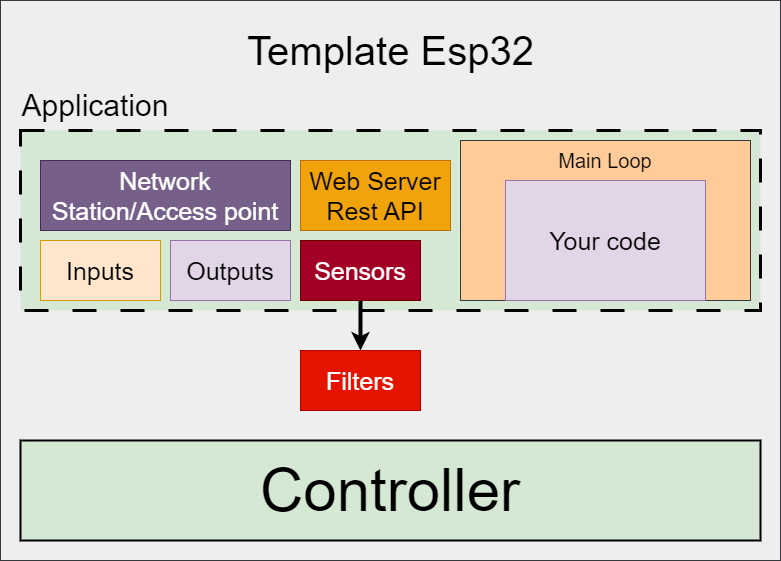
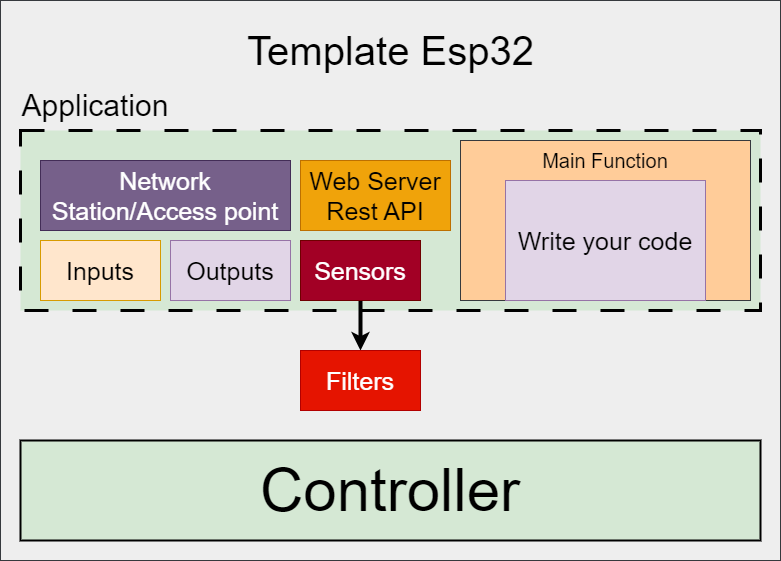
Template for testing

Changed region(s): [[0.6453, 0.3939, 0.8912, 0.4545], [0.6761, 0.2727, 0.8604, 0.303]]

diff --git a/main/main.cpp b/main/main.cpp
@@ -5,184 +5,27 @@
 #include "freertos/FreeRTOS.h"
 #include "freertos/task.h"
 #include <driver/gpio.h>
+#include <esp_err.h>
 
 #include "Application.hpp"
-#include "Input.hpp"
 #include "Output.hpp"
 #include "Sensor.hpp"
-#include "Network.hpp"
-#include "Server.h"
+#include "ultrasonic.h"
 #include "debug.h"
 #include "common_data.h"
-#include <ultrasonic.h>
-
-// static const char* TAG = "Application";
 
 extern "C" {
   void app_main (void);
 }
 
-#define MAX_DISTANCE_CM 500 // 5m max
-
-gpio_num_t TRIGGER_GPIO = GPIO_NUM_5;
-gpio_num_t ECHO_GPIO = GPIO_NUM_17;
-
-esp_err_t sensor_1_config ()
-{
-  // config
-  // -------------------  
-  //--------------------
-
-  debug_warning ("Config your sensor 1 here");
-  return ESP_OK;
-}
-
-float update_value_sensor_1 (void)
-{
-  float value = ( rand () ) % 101;
-  // debug_warning ("value sensor 1 is : %f", value);
-  return value;
-}
-
-esp_err_t sensor_2_config ()
-{
-  // config
-  // -------------------  
-  //--------------------
-
-  debug_warning ("Config your sensor 2 here");
-  return ESP_OK;
-}
-
-float update_value_sensor_2 (void)
-{
-  float value = ( rand () ) % 51;
-  // debug_warning ("value sensor 2 is : %f", value);
-  return value;
-}
-
-static ultrasonic_sensor_t ultrasonic_1 = {
-  .trigger_pin = TRIGGER_GPIO,
-  .echo_pin = ECHO_GPIO
-};
-
-esp_err_t sensor_3_config ()
-{
-  ultrasonic_init (&ultrasonic_1);
-  debug_warning ("Config your sensor 3 here");
-  return ESP_OK;
-}
-
-float update_value_sensor_3 (void)
-{
-  float distance;
-  esp_err_t res = ultrasonic_measure (&ultrasonic_1, MAX_DISTANCE_CM, &distance);
-  if ( res != ESP_OK )
-  {
-    debug_error ("Error %d: ", res);
-    switch ( res )
-    {
-      case ESP_ERR_ULTRASONIC_PING:
-        debug_normal ("Cannot ping (device is in invalid state)");
-        break;
-      case ESP_ERR_ULTRASONIC_PING_TIMEOUT:
-        debug_normal ("Ping timeout (no device found)");
-        break;
-      case ESP_ERR_ULTRASONIC_ECHO_TIMEOUT:
-        debug_normal ("Echo timeout (i.e. distance too big)");
-        break;
-      default:
-        debug_warning ("%s", esp_err_to_name (res));
-    }
-  }
-  else
-  {
-    //    debug_normal ("Distance: %0.04f cm", distance * 100);
-  }
-  return ( float ) ( distance * 100.0f );
-}
-
-Application* app = Application::get_instance ("Esp");
-
 void app_main (void)
 {
-  debug_normal ("Device name: %s", ( app->get_device_name () ).c_str ());
-
-  // Outputs
-  Output* motor_2 = OutputFactory::create_output (GPIO_NUM_2, "Motor 2");
-  app->add_output (motor_2);
-
-  Output* motor_5 = OutputFactory::create_output (GPIO_NUM_5, "Motor 5");
-  app->add_output (motor_5);
-
-  // Inputs
-  Input* button_1 = InputFactory::create_input (GPIO_NUM_0, "Button 1");
-  app->add_input (button_1);
-
-  Input* button_2 = InputFactory::create_input (GPIO_NUM_1, "Button 2");
-  app->add_input (button_2);
-
-  // Sensors 
-  Sensor* sensor_1 = SensorFactory::create_sensor ("Sensor 1", sensor_1_config, update_value_sensor_1, 2000);
-  app->add_sensor (sensor_1);
-  Sensor* sensor_2 = SensorFactory::create_sensor ("Sensor 2", sensor_2_config, update_value_sensor_2, 1000);
-  app->add_sensor (sensor_2);
-
-  Sensor* sensor_3 = SensorFactory::create_sensor ("Sensor 3", sensor_3_config, update_value_sensor_3, 500);
-  app->add_sensor (sensor_3);
-
-  // Device Info
-  app->print_mac_address ();
-  app->print_device_details ();
-  app->print_device_details ();
-  app->remove_output ("Motor 5");
-  // app->remove_output ("Motor 2");
-  app->remove_input ("Button 2");
-  // app->remove_sensor ("Sensor 3");
-  print_new_line ();
-
-
-  // Network 
-  Network* network_base = NetworkFactory::create_network ("danilo_tech_ap", "danilo_tech");
-  app->add_network (network_base, NetworkType::AP);
-
-  // Network* network_base = NetworkFactory::create_network ("hPalmiraCM", "Hpalmira17");
-  // app->add_network (network_base, NetworkType::STA);
-  // app->stop_network ();
-
-  if ( ESP_OK == app->network_exist () )
-  {
-    init_end_points ();
-  }
-
-  app->print_device_details ();
+  // Create application
 
   // Add a minimum delay of 100 ms to prevent the watchdog......
   while ( true )
   {
-    app->set_output ("Motor 2", ON);
-    debug_normal ("Button 1 status %s", debug_get_bool_status (app->get_input_status ("Button 1")));
-    debug_normal ("Sensor 1 value            = %.2f", app->get_sensor_data ("Sensor 1"));
-    debug_normal ("Sensor 2 value            = %.2f", app->get_sensor_data ("Sensor 2"));
-    debug_normal ("Sensor 3 value            = %.2f", app->get_sensor_data ("Sensor 3"));
-    debug_warning ("Sensor 3 mean filter       = %.2f", app->get_sensor_data ("Sensor 3", SensorFilterType::MEDIAN));
-    debug_error ("Sensor 3 kalman filter    = %.2f", app->get_sensor_data ("Sensor 3", SensorFilterType::KALMAN));
-
-    server_data.distance = app->get_sensor_data ("Sensor 3", SensorFilterType::KALMAN);
-    DELAY_SECONDS (COMMON_DATA_SECOND * 1);
-
-
-    debug_error ("Network clients   = %d", network_base->get_clients_ap ());
-    app->set_output ("Motor 2", OFF);
-    DELAY_SECONDS (COMMON_DATA_SECOND * 1);
-
-
-    // Debug functions
-    // debug_normal ("TEST NORMAL %d %0.2f %s %s", 5, 6.65, "Machine", "testing");
-    // debug_warning ("TEST WARNING %d %0.2f %s %s", 5, 6.65, "Machine", "testing");
-    // debug_error ("TEST ERROR %d %0.2f %s %s", 5, 6.65, "Machine", "testing");
-
-    DELAY_SECONDS (COMMON_DATA_MINIMUM);
+    DELAY (MINIMUM);
   }
 }
 

diff --git a/components/Sensor/Sensor.cpp b/components/Sensor/Sensor.cpp
@@ -12,7 +12,9 @@ constexpr int PRIORITY = 5;
 
 Sensor::Sensor (std::string _name, callback_config_function callback_config, std::function<float ()> func, uint16_t samples) : value (0), sampling_period (samples), enable_sensor (true), name (_name), kalman_value (0), median_value (0), filter (10, 0), fn (func)
 {
-  ( *callback_config )( );
+  // ( *callback_config )( );
+
+  ESP_ERROR_CHECK (( *callback_config )( ));
 
   kalman_gain = 0;
   current_estimate = 0;
@@ -133,14 +135,14 @@ void Sensor::sensor_task (void* arg)
 #ifdef SENSOR_DEBUG
     debug_warning ("Sensor \"%s\" Sampling period is: %d %f", ( sensor_instance->name ).c_str (), sensor_instance->sampling_period, _fn ());
 #endif
-
     sensor_instance->update_value (_fn ());
-
+    sensor_instance->get_median_value ();
+    sensor_instance->get_kalman_value ();
     vTaskDelay (pdMS_TO_TICKS (sensor_instance->sampling_period));
   }
 }
 
 void Sensor::init (void)
 {
-  xTaskCreatePinnedToCore (sensor_task, "sensor_task", STACK_DEPTH, this, PRIORITY, &task_handle, 0);
+  xTaskCreatePinnedToCore (sensor_task, "sensor_task", STACK_DEPTH, this, PRIORITY, &task_handle, 1);
 }

diff --git a/components/common_data/include/common_data.h b/components/common_data/include/common_data.h
@@ -7,17 +7,17 @@
 #include "freertos/FreeRTOS.h"
 #include "freertos/task.h"
 
-#define COMMON_DATA_MINIMUM                 100
-#define COMMON_DATA_MILISECOND              1000 
-#define COMMON_DATA_SECOND                  1000 
-#define COMMON_DATA_MINUTE                  60*1000 
-#define COMMON_DATA_HOUR                    60*60*1000 
+#define MINIMUM                 100
+#define ONE_MILISECOND          1
+#define ONE_SECOND              1000 
+#define ONE_MINUTE              60*1000
+#define ONE_HOUR                60*60*1000 
 
 #ifdef __cplusplus
 extern "C" {
 #endif
 
-#define DELAY_SECONDS(value) \
+#define DELAY(value) \
           vTaskDelay (pdMS_TO_TICKS (value))
 
 #define ON true
